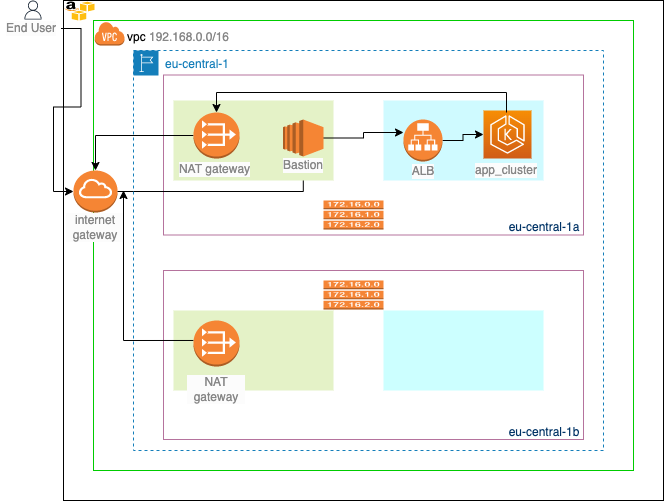
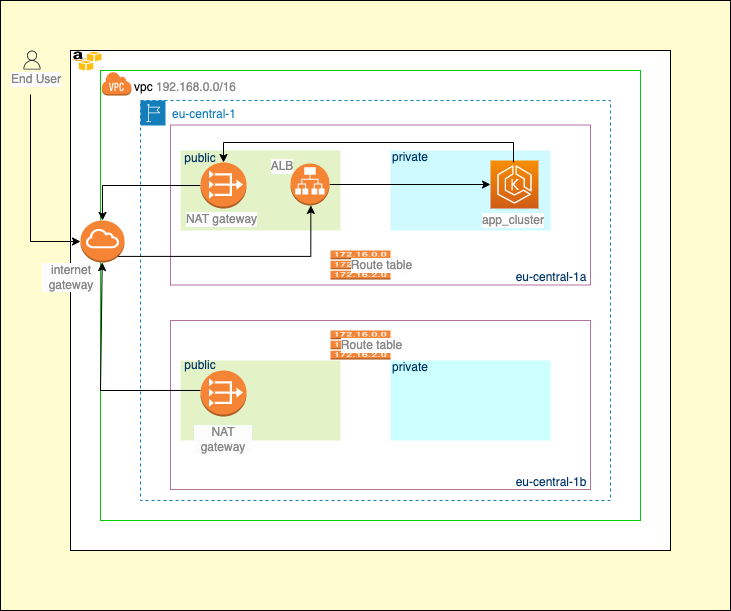
bug fixes and read me update

diff --git a/README.md b/README.md
@@ -2,7 +2,7 @@
 
 ### Requirement Gathering and Analysis
 
-This document guide is for the MVP solution of three micro-services ( all private ). The cloud chosen is AWS. As of now the architecture needed is for only one environment with code to be built in a way that this can be used to create the infrastructure for production as well. The apps are deployed on EKS cluster.
+This document guide is for the MVP solution of the microservice hello-world. The cloud chosen is AWS. As of now the architecture needed is for only one environment with code to be built in a way that this can be used to create the infrastructure for production as well. The apps are deployed on EKS cluster.
 
 For code reusability [**Terraform**](https://www.terraform.io) has been chosen as IaC.
 
@@ -65,17 +65,19 @@ terraform version
 kubectl version short
 # for aws-cli version
 aws --version
+# for helm version
+helm version
 
 ```
 
-Next step is to ensure that you have configured your aws profile so that can run terraform and packer
+Next step is to ensure that you have configured your aws profile so that can run terraform
 
 ```bash
 
 # aws configure
   <provide your access id>
   <provide your secret id>
-  <provide your regionl ( eu-central-1)>
+  <provide your region ( eu-central-1)>
   <provide default type as json>
 ```
 
@@ -93,38 +95,67 @@ cd tc-allianz/scripts
 bash init.sh
 
 ```
-This will take 10-12 minutes of time. Once the terraform completes creating the infrastructure you can run 
+
+The *init.sh* script first creates the backend s3 bucket and then creates the infrastructure for the kubernetes deployment. The code for the infrastructure has been modularized and can be used for various environments. As of now only the stage = dev is deployed.
+
+This will take 10-12 minutes of time. Once the terraform completes creating the infrastructure we can run *terraform state list* to list all the aws objects just created via terraform.
 
 ```
 cd ../terraform/infrastructure/
 terraform state list
-```
-To list all the aws objects you just created via terraform.
 
-Once this is ready run the istio-setup.sh command to create all the kubernetes components
+module.infra.aws_eip.nat1
+module.infra.aws_eip.nat2
+module.infra.aws_eks_cluster.eks
+module.infra.aws_eks_node_group.nodes
+module.infra.aws_iam_role.eks_cluster
+module.infra.aws_iam_role.node_groups
+module.infra.aws_iam_role_policy_attachment.eks_cluster_policy
+module.infra.aws_iam_role_policy_attachment.eks_cni_policy
+module.infra.aws_iam_role_policy_attachment.eks_ecr_policy
+module.infra.aws_iam_role_policy_attachment.eks_node_policy
+module.infra.aws_internet_gateway.main
+module.infra.aws_nat_gateway.nat_gw1
+module.infra.aws_nat_gateway.nat_gw2
+module.infra.aws_network_acl.main_nacl
+module.infra.aws_route_table.private1
+module.infra.aws_route_table.private2
+module.infra.aws_route_table.public
+module.infra.aws_route_table_association.private1
+module.infra.aws_route_table_association.private2
+module.infra.aws_route_table_association.public1
+module.infra.aws_route_table_association.public2
+module.infra.aws_subnet.private_1
+module.infra.aws_subnet.private_2
+module.infra.aws_subnet.public_1
+module.infra.aws_subnet.public_2
+module.infra.aws_vpc.main
+```
+
+As of now the plan is to expose the application via Internet facing ALB hence I have not used any bastion server. However I have added the bastion server code as well if the requirement comes for internal-ALB. 
+
+Once the infrastructure is ready run the istio-setup.sh command to create all the kubernetes components
 
 ```bash
 cd -
 bash istio-setup.sh
-
 ```
 
-**Lets discuss in details what components are created**
+## Lets discuss in details what components are created
 
 ```bash
 $ cat istio-setup.sh
 
 aws eks update-kubeconfig --name app_cluster
-helm repo add istio https://istio-release.storage.googleapis.com/charts
-helm repo update
+
+curl -L https://istio.io/downloadIstio | sh -
+cd istio-1.14.1/
 kubectl create namespace istio-system
-helm install istio-base istio/base -n istio-system
-helm install istiod istio/istiod -n istio-system --wait
+helm install istio-base manifests/charts/base -n istio-system
+helm install istiod manifests/charts/istio-control/istio-discovery -n istio-system
+helm install istio-ingress manifests/charts/gateways/istio-ingress -n istio-system
 
-
-
-
-cd ../k8/crp2-tech-challenge/1-helm-debug/helm/namespace
+cd ../../k8/crp2-tech-challenge/1-helm-debug/helm/namespace
 helm upgrade --install --values values.yaml namespace-builder .
 
 cd ../app/
@@ -138,8 +169,9 @@ cd ../service
 helm upgrade --install --values values.yaml service-app .
 
 
-cd ../ingress
+cd ../istio-network-elements
 helm upgrade --install --values values.yaml ingress-app .
+kubectl apply -f https://github.com/kubernetes-sigs/metrics-server/releases/latest/download/components.yaml
 ```
 
 The ```aws eks update-kubeconfig --name app_cluster``` configures the kubernetes config file with the eks cluster which is recently created.
@@ -147,16 +179,19 @@ Once the cluster is configured the next step is to create the istio components. 
 
 - istio-base
 - istiod
-
+- istio-ingress
 The below section takes care of that - 
 
 ```
-helm repo add istio https://istio-release.storage.googleapis.com/charts
-helm repo update
+curl -L https://istio.io/downloadIstio | sh -
+cd istio-1.14.1/
 kubectl create namespace istio-system
-helm install istio-base istio/base -n istio-system
-helm install istiod istio/istiod -n istio-system --wait
+helm install istio-base manifests/charts/base -n istio-system
+helm install istiod manifests/charts/istio-control/istio-discovery -n istio-system
+helm install istio-ingress manifests/charts/gateways/istio-ingress -n istio-system
 ```
+
+If we plan to create an **internal ALB** then we need to add the annotation **"service.beta.kubernetes.io/aws-load-balancer-internal": "true**" in *scripts/istio-1.14.1/manifests/charts/gateways/istio-ingress/templates/service.yaml* .
 
 Now the helm components are added we need to deploy the application. We have seggregated the entire setup into four components -
 
@@ -187,12 +222,21 @@ helm upgrade --install --values values.yaml service-app .
 cd ../ingress
 helm upgrade --install --values values.yaml ingress-app .
 ```
-This contains four major parts
+This contains three major parts
 
   - The virtual service: To configure the routing policy. We are using one service, so one virtual service is enough.
   - Destination rule: To define the subsets (define the pod labels).
-  - Istio Ingress - To accept traffic from outside the cluster.
   - Gateway: To connect the ingress to the virtual service.
+
+Last but not the least the custom metric api extension is installed for monitoring the metrices
+
+```
+kubectl apply -f https://github.com/kubernetes-sigs/metrics-server/releases/latest/download/components.yaml
+```
+
+The reason why I seggregated this is because considering the scope of CI/CD is not here, the sequence of events should adhere to the CI/CD tasks. PFB the diagram for the same:
+ 
+![diagram](cicd.png)
 
 ## Application LLD Description
 
@@ -274,11 +318,44 @@ This ensured if the service is requested anywhere from the service mesh then it 
 
 The next step was to create the ingress and the gateway. We had to configure the virtual service to add the gateway 
 ```gateways: - hello-world-gateway``` and in the gateway the ingress controller was added as well as the virtual service.
-The ingress controller is a simple one that gets request on top of the nodeport and route to the hello-world  service to port 80.
+The ingress controller is public facing one. If we plan to create an **internal ALB** then we need to add the annotation **"service.beta.kubernetes.io/aws-load-balancer-internal": "true**" in *scripts/istio-1.14.1/manifests/charts/gateways/istio-ingress/templates/service.yaml*.
 
 **Hiccup**
 
-In order to create an internal ALB even after annotation and the tag in the aws subnet, the tag ```kubernetes.io/cluster/app_cluster``` needed to be changed from **shared** to **owned**. Else the Load Balancder service was generating with External IP in the *pending* state.
+1. In order to create an internal ALB even after annotation and the tag in the aws subnet, the tag ```kubernetes.io/cluster/app_cluster``` needed to be changed from **shared** to **owned**. Else the Load Balancder service was generating with External IP in the *pending* state.
+
+2. The target of the service was changed from 80 to 8000 as the pods were running in port 8000 (As a part of technical challenge)
+
+**de**
+
+![diagram](de.png)
+
+**es**
+
+![diagram](es.png)
+
+**fr**
+
+![diagram](fr.png)
+
+**eu**
+
+![diagram](eu.png)
+
+## Monitoring
+
+I've kept the monitoring part pretty rudimentary. The ask was to get the performance parameters / status from the EKS cluster components without using kubectl. I've used module  **python-kubernetes** for the same.
+
+As of now there are two checks that are happening 
+- Listing node and its status
+- Listing pod in the ```interview```  namespace and its utilization.
+
+and printing the corresponding values.
+
+All the functions of the CoreV1Api is listed here https://raw.githubusercontent.com/kubernetes-client/python/master/kubernetes/docs/CoreV1Api.md.
+
+As of now I have used only two **list_node()** and **CustomObjectsApi()**. In the future this can be written in a Flask app and can be made API based to retrieve the data.
+
 
 
 
